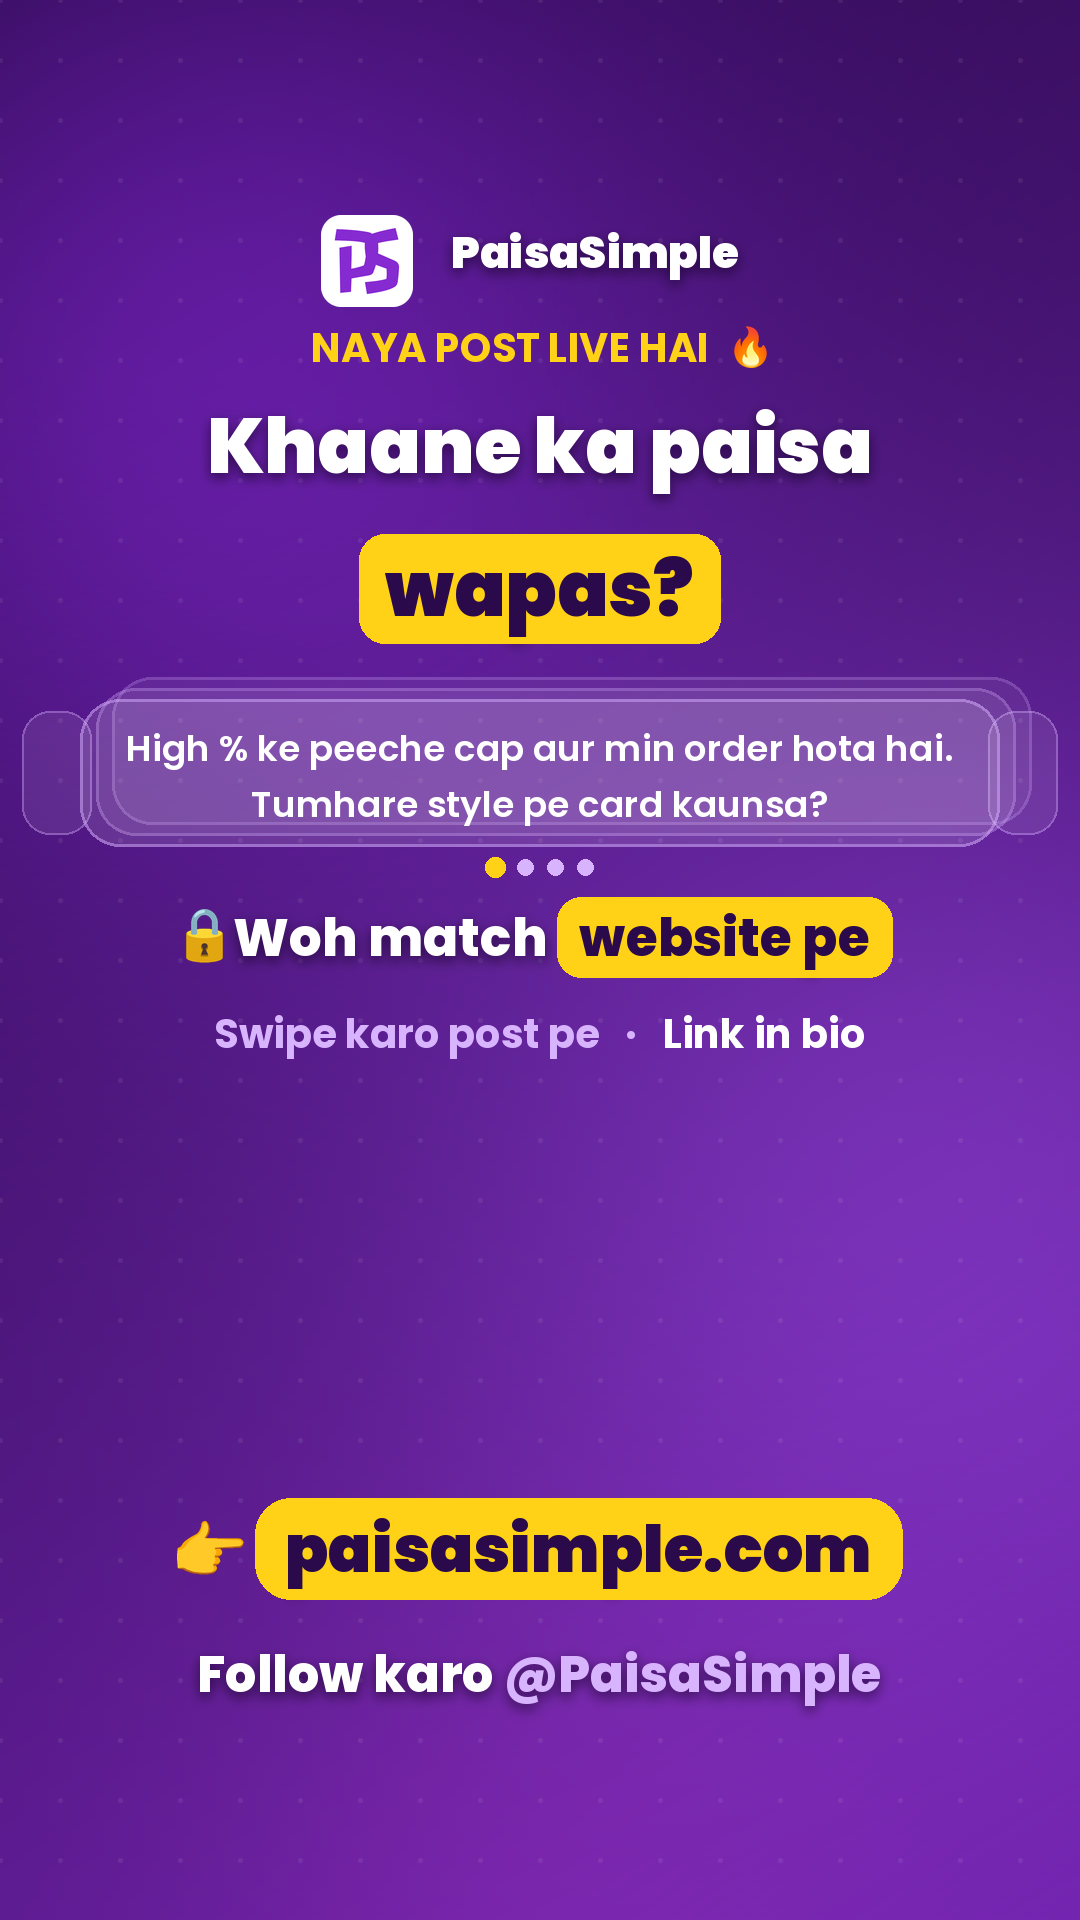
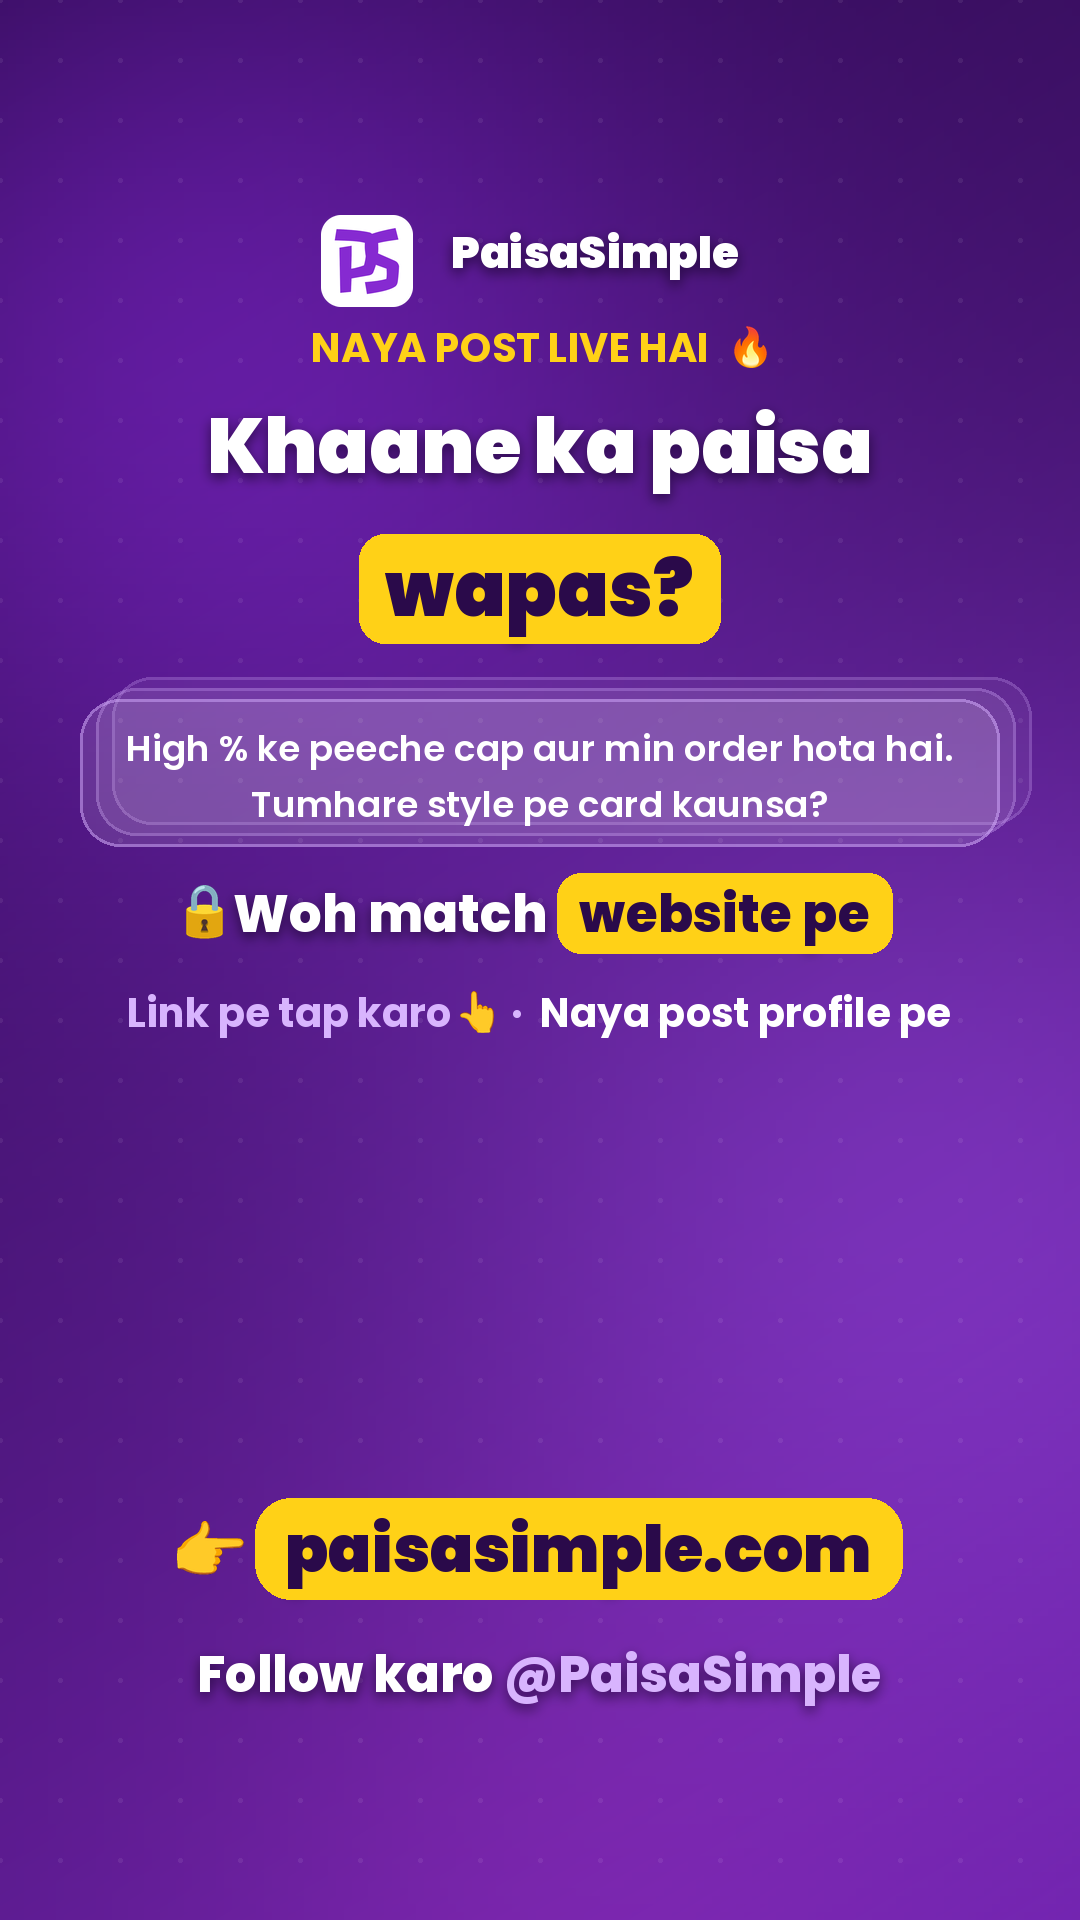
Replace Story swipe CTA with tap-to-link wording
Instagram Stories have no swipe, so post Stories now say
"Link pe tap karo 👆 · Naya post profile pe". SP01 republished
as -v2 after the live Story was deleted.

Changed region(s): [[0.1222, 0.4375, 0.8861, 0.5625]]

diff --git a/stories/STORIES.md b/stories/STORIES.md
@@ -1,6 +1,6 @@
 # PaisaSimple Stories (1080×1920)
 
-Link sticker: place it in the empty band y 1150–1450 (centre ≈ y 1300).
+Link sticker: place it in the empty band y 1150–1450 (centre ≈ y 1300). Do not say 'swipe' — Stories have no swipe action.
 Renderer: `engine/story_engine.py` (official logo badge only). Reel specs: `engine/story_specs.py`. Post specs: `engine/story_specs_posts.py`.
 
 ## Reel Stories S01–S16 — 7:05 PM IST
@@ -28,11 +28,11 @@ Each goes out 5 minutes after that day's reel (7:00 PM) and teases the reel's si
 
 ## Post Stories SP01–SP16 — 1:05 PM IST
 
-Each goes out 5 minutes after that day's carousel (1:00 PM), teases the carousel topic, and links to the carousel's site page. Visually distinct from reel Stories (carousel peek-slides + pagination dots). SP01 was made after the 18 Nov carousel went live, for a same-day Story.
+Each goes out 5 minutes after that day's carousel (1:00 PM), teases the carousel topic, and links to the carousel's site page. Visually distinct from reel Stories (stacked-card carousel motif). CTA is 'Link pe tap karo 👆 · Naya post profile pe' — no swipe wording (Instagram Stories have no swipe). SP01 was first published on 18 Nov, then deleted and replaced the same day by SP01-reward-points-traps-v2.png.
 
 | Story | Date | File | Teases carousel | Link sticker URL |
 |---|---|---|---|---|
-| SP01 | 2026-11-18 | SP01-reward-points-traps.png | P01-reward-points-traps | https://paisasimple.com/en/insights/credit-cards/using-credit-card-reward-points |
+| SP01 | 2026-11-18 | SP01-reward-points-traps-v2.png | P01-reward-points-traps | https://paisasimple.com/en/insights/credit-cards/using-credit-card-reward-points |
 | SP02 | 2026-11-19 | SP02-how-card-companies-make-money.png | P02-how-card-companies-make-money | https://paisasimple.com/en/insights/credit-cards/how-credit-card-companies-make-money |
 | SP03 | 2026-11-20 | SP03-card-fraud-safety.png | P03-card-fraud-safety | https://paisasimple.com/en/insights/credit-cards/protecting-yourself-from-credit-card-fraud |
 | SP04 | 2026-11-21 | SP04-lounge-access-myths.png | P04-lounge-access-myths | https://paisasimple.com/en/insights/credit-cards/top-credit-cards-india-airport-lounge-access |
